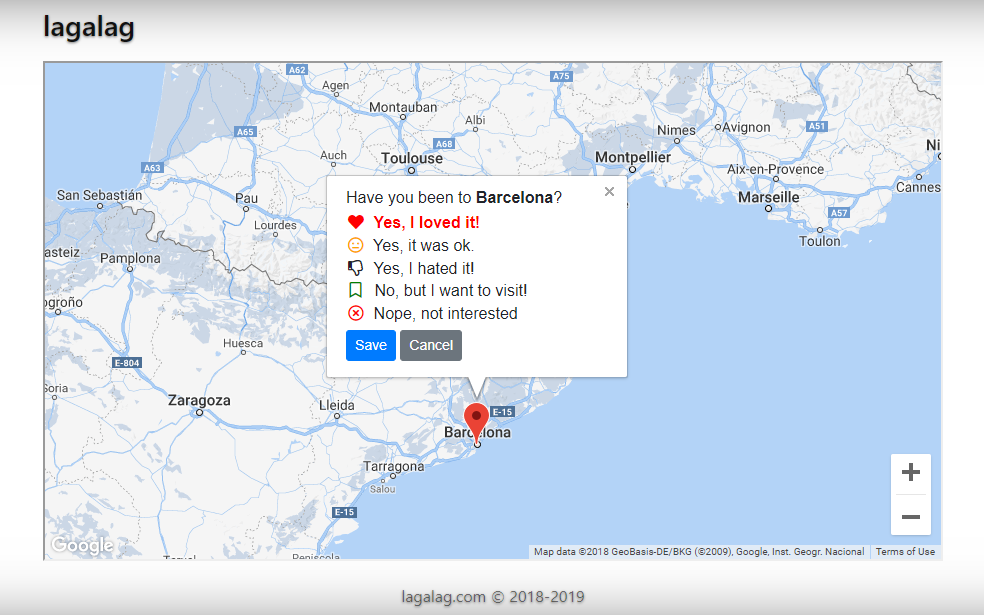
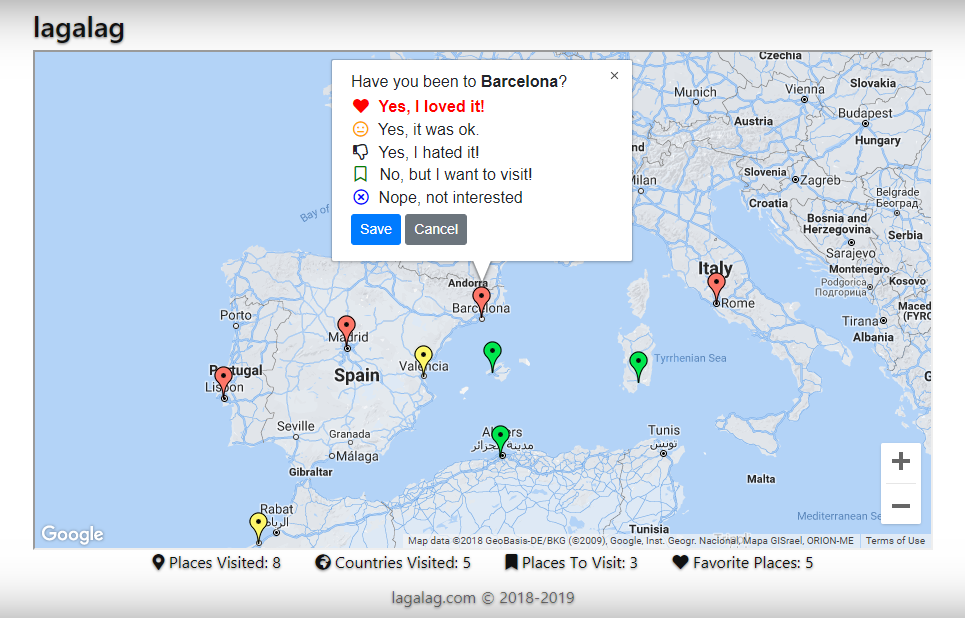
Updated screenshot

diff --git a/README.md b/README.md
@@ -1,8 +1,8 @@
 # lagalag: the web app (Spring Boot, Bootstrap, Google Maps)
 
-![screenshot](/screenshots/mult-cities-marked-color.png)
+![screenshot](/screenshots/mainscreen.png)
 
-_Screenshot (as of Oct 27 2018): when a user clicks on the map, a marker and a popup showing the name of the closest city/town appears. Users can then give their opinion (or Sense) about a place. The colors of the markers correspond to the user's sentiment about a place._
+_Screenshot (as of Nov 10 2018): when a user clicks on the map, a marker and a popup showing the name of the closest city/town appears. Users can then give their opinion (or Sense) about a place. The colors of the markers correspond to the user's sentiment about a place. Below the map interesting stats about the user's travel activity is shown._
 
 This project demonstrates the use of several popular web technologies to create a functional web application.
 
